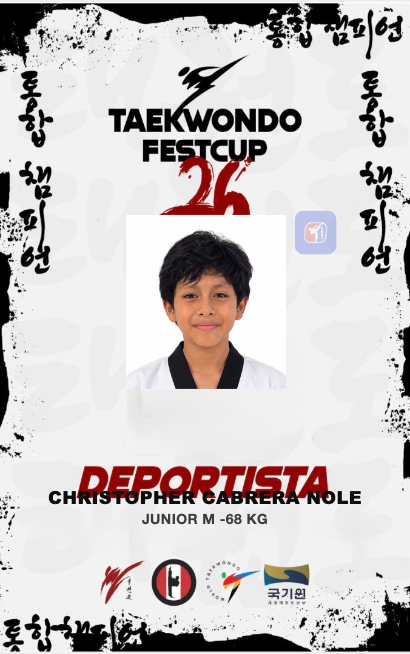
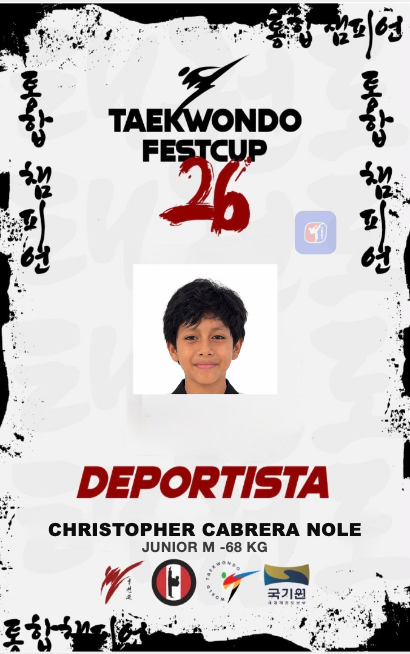
FestCup credencial: baja foto y textos para no tapar 26 ni el rol.

Changed region(s): [[0.1171, 0.7339, 0.878, 0.8563], [0.322, 0.3058, 0.6732, 0.6116]]

diff --git a/src/lib/campeonato/credencial-layout.js b/src/lib/campeonato/credencial-layout.js
@@ -6,10 +6,10 @@ export const DEFAULT_CREDENCIAL_LAYOUT = {
 
 /** FestCup 2026 · plantillas limpias (rol en JPG) + foto, nombre, categoría y logo academia */
 export const FESTCUP_2026_CREDENCIAL_LAYOUT = {
-  foto: { type: 'rect', left: 50, top: 46.2, width: 39.2, height: 26.8 },
+  foto: { type: 'rect', left: 50, top: 50.4, width: 35.6, height: 20.2 },
   /** Debajo del rol impreso en la plantilla (DEPORTISTA / ENTRENADOR) */
-  nombre: { left: 50, top: 74.9, width: 90 },
-  categoria: { left: 50, top: 78.6, width: 90 },
+  nombre: { left: 50, top: 79.6, width: 88 },
+  categoria: { left: 50, top: 82.8, width: 88 },
   datos: { left: 50, top: 74.9, width: 90, height: 10 },
   academiaLogo: { left: 77, top: 35.5, width: 10.5, opacity: 0.28, borderRadius: '22%' },
   rolOnTemplate: true,

diff --git a/src/components/campeonatos/CredencialCard.js b/src/components/campeonatos/CredencialCard.js
@@ -34,7 +34,7 @@ export default function CredencialCard({ competidor: c, templateUrl, layout: lay
   const isFestcup2026 = isFestcup2026Credencial({ layout, templateUrl })
   const plantillaSrc = useMemo(() => {
     const src = credencialTemplateSrc(templateUrl)
-    return isFestcup2026 ? `${src}${src.includes('?') ? '&' : '?'}v=20261015e` : src
+    return isFestcup2026 ? `${src}${src.includes('?') ? '&' : '?'}v=20261015f` : src
   }, [templateUrl, isFestcup2026])
 
   useEffect(() => {
